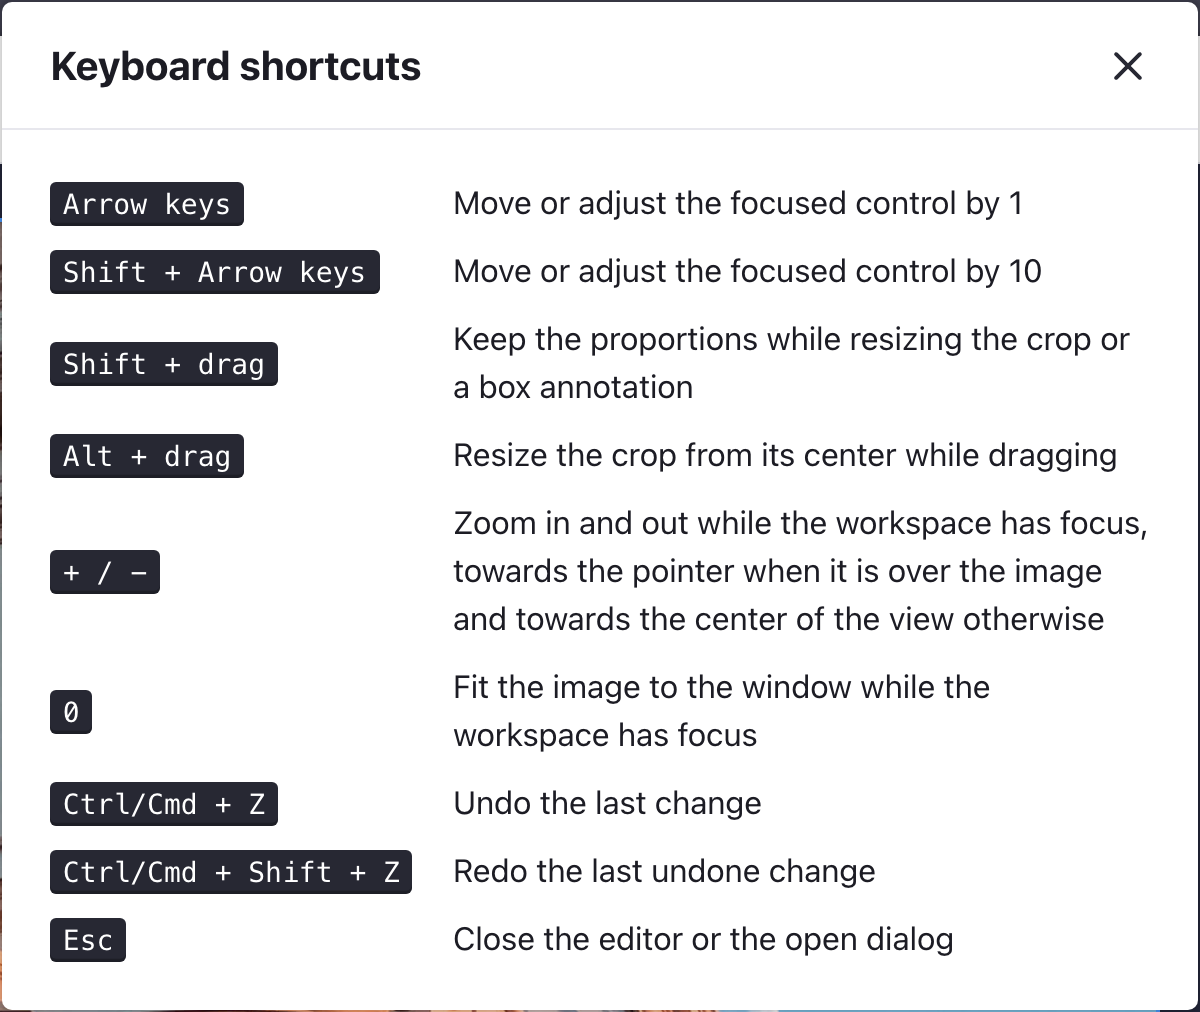
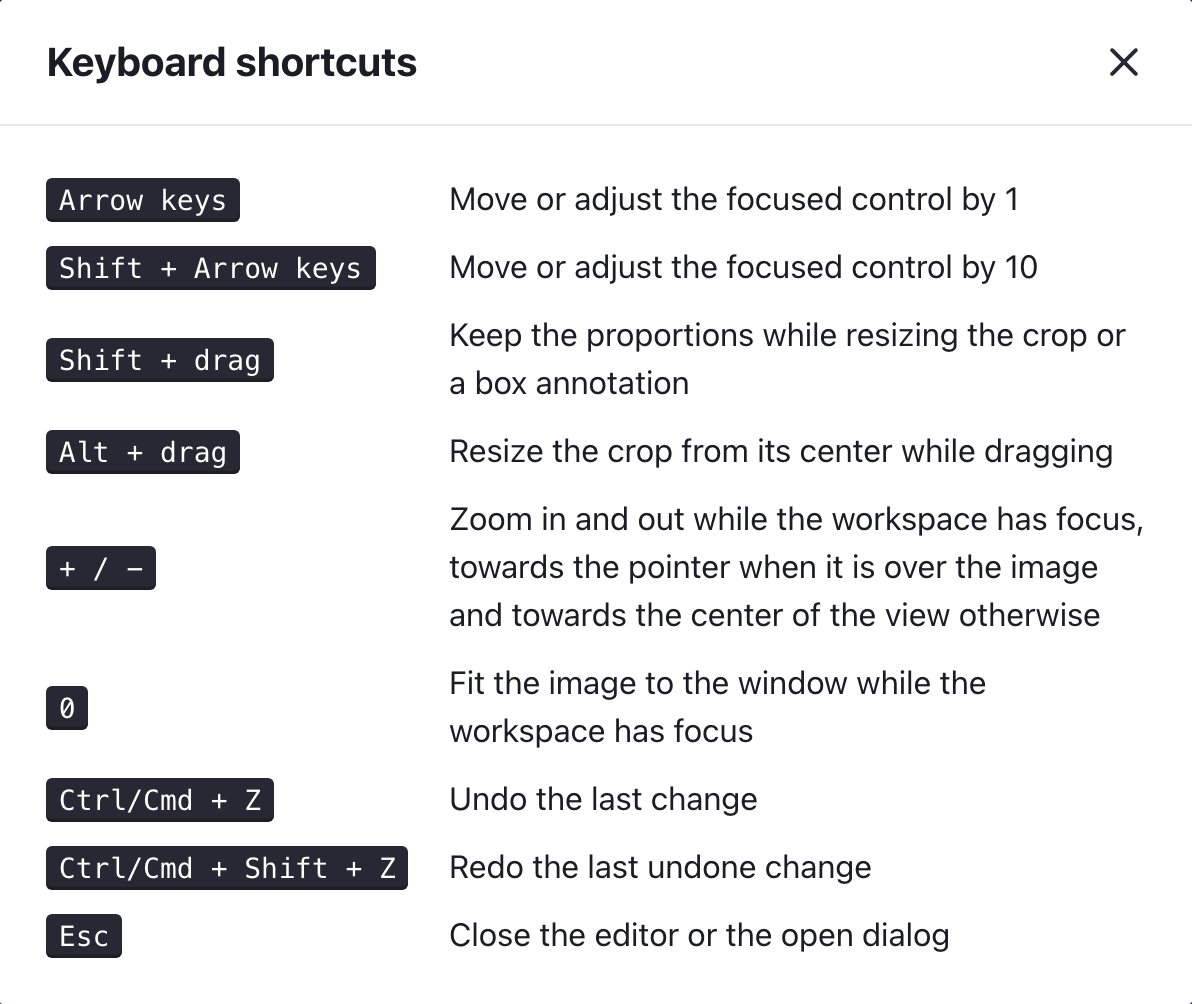
Even out the website cards and clean the shortcuts capture

diff --git a/website/index.html b/website/index.html
@@ -193,18 +193,19 @@
 							<ul>
 								<li>Free crop with eight handles, movable as a whole</li>
 								<li>
-									Seven ratios: custom, original, 1:1, 4:3, 16:9, 3:4,
-									9:16
-								</li>
-								<li>Numeric X, Y, width and height, with a ratio lock</li>
-								<li>Straighten at any angle, with automatic cover scaling</li>
-								<li>Rotate 90 degrees, and recenter on the crop</li>
-								<li>
-									Zoom in, out, and fit to the window, anchored to the
-									pointer when it is over the image
+									Seven ratios, from original to 9:16, with a
+									proportion lock
 								</li>
 								<li>
-									<kbd>Shift</kbd> keeps proportions,
+									Numeric X, Y, width and height for an exact frame
+								</li>
+								<li>
+									Straighten at any angle with automatic cover scaling,
+									and rotate 90 degrees
+								</li>
+								<li>
+									Zoom and fit, anchored to the pointer;
+									<kbd>Shift</kbd> keeps proportions and
 									<kbd>Alt</kbd> resizes from the centre
 								</li>
 							</ul>
@@ -220,6 +221,10 @@
 								<li>
 									Real slider elements, so arrows, Home, End and Page keys
 									all work
+								</li>
+								<li>
+									Every value is a number in the edit state, never baked
+									into the pixels
 								</li>
 							</ul>
 						</article>
@@ -241,6 +246,10 @@
 								<li>
 									Live thumbnails, painted from a small bitmap prepared at
 									load time
+								</li>
+								<li>
+									The chosen card shows a ring, a bold label and a check
+									badge, never colour alone
 								</li>
 							</ul>
 						</article>
@@ -293,6 +302,10 @@
 								<li>
 									Editing runs on a downscaled preview, so a 20 megapixel
 									photograph stays responsive
+								</li>
+								<li>
+									Cancel leaves the file untouched: until it is saved, the
+									edit exists only as data
 								</li>
 							</ul>
 						</article>
@@ -622,19 +635,13 @@
 						</article>
 
 						<article class="card reveal">
-							<h3>Never colour alone</h3>
+							<h3>Colour and motion are optional</h3>
 							<p>
 								Selection, state and errors are carried by shape, weight
 								and text as well as colour, and the contrast of every pair
-								was checked.
-							</p>
-						</article>
-
-						<article class="card reveal">
-							<h3>Motion is optional</h3>
-							<p>
-								Guides, transitions and this page's own animations all
-								stand down when the system asks for reduced motion.
+								was checked. Guides, transitions and this page's own
+								animations all stand down when the system asks for reduced
+								motion.
 							</p>
 						</article>
 					</div>
@@ -736,9 +743,9 @@
 						<img
 							class="window"
 							src="screenshots/shortcuts.png"
-									width="1200"
-									height="916"
-									style="margin: 0 auto; max-width: min(100%, 600px)"
+									width="1192"
+									height="1004"
+									style="margin: 0 auto; max-width: min(100%, 596px)"
 							alt="The editor's own keyboard shortcuts dialog, listing the arrow keys, Shift and Alt modifiers, zoom keys, undo, redo and Escape."
 						/>
 						<figcaption style="text-align: center">
